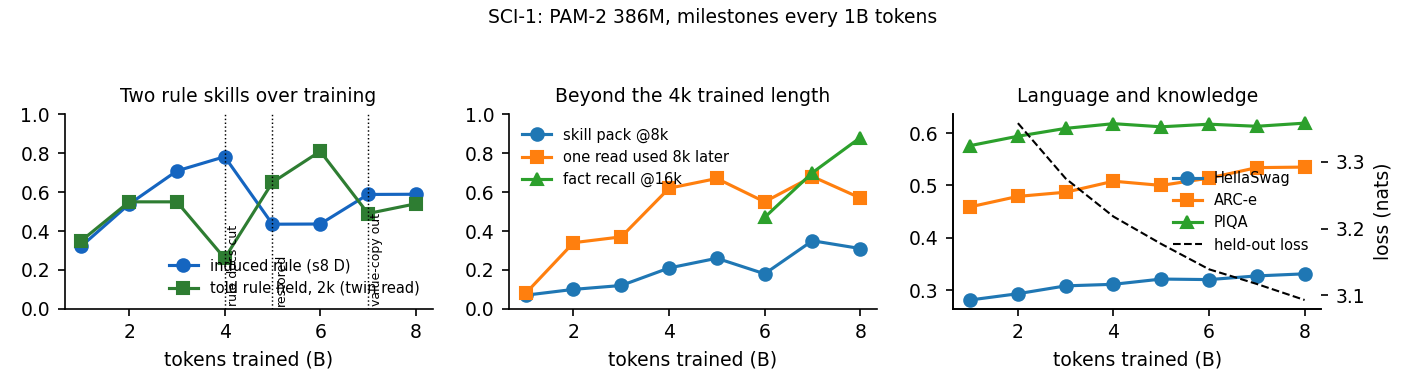
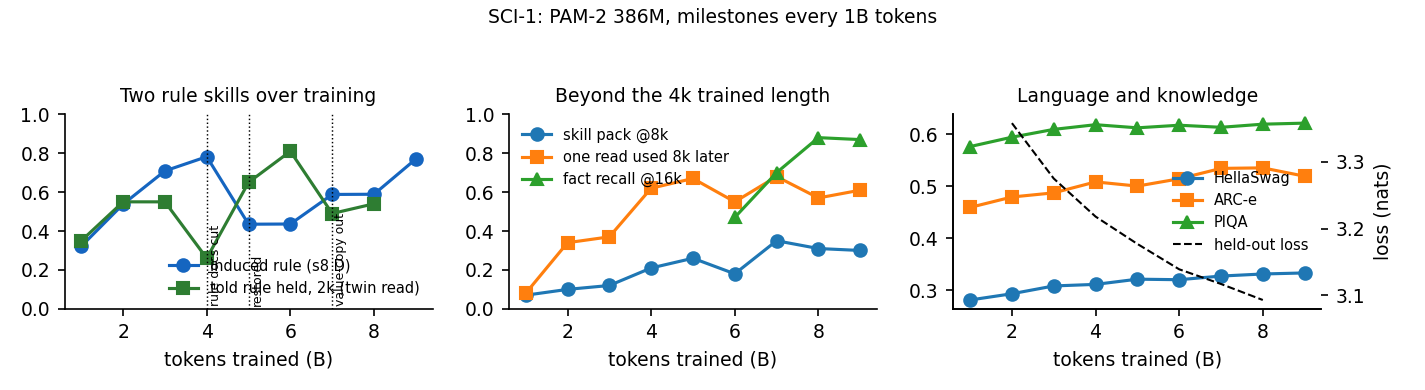
board + paper data: M9 (s8 D 0.770, lagged b2s recovery complete; cont3 verdict: not protoc); fig4 extended (docs/data only)

diff --git a/v16/SCRATCHPAD.md b/v16/SCRATCHPAD.md
@@ -153,9 +153,11 @@ Popped by the others (23:55 IST):
 | M6 (91,554, cont2) | 6.0B | 0.436 | 0.81 / 0.20 |
 | M7 (106,813, cont2 end) | 7.0B | 0.588 | 0.49 / 0.04 |
 | 122,072 (cont3 +1B, protoc out) | 8.0B | 0.589 | 0.54 / 0.04 |
+| 137,331 (cont3 +2B) | 9.0B | 0.770 | (A26 pending) |
 Opposite moves in 2 of 3 intervals (M6->M7 within one mix: told 0.81 -> 0.49, induced 0.44 -> 0.59): supports competition; skills swing +-0.3 between milestones, so cont3 is judged on 122,072 AND 137,331. cont3 read: s8 +0.10 AND told -0.10 = competition; s8 up + told +-0.10 = protoc-specific; s8 flat + told holds = (b)/(c); s8 flat + told falls = protoc helped told.
 
 ## Decisions (organiser)
+- 2026-11-05 13:16 IST: M9 (137,331, 9.0B, cont3 +2B): s8 D 0.589 -> 0.770 (near the M4 peak 0.782; 2k 0.90/0.92, 4k 0.53/0.74). cont3 verdict: 0.770 < 0.84 bar, so NOT attributed to dropping protoc; it is the lagged b2s recovery completing ~2B tokens after restoration. Reach flat (skill 8k 0.30, clk2 8k/16k 0.61/0.12, needles 16k 0.87); HS/ARC-e/PIQA 0.333/0.519/0.621; holdout ppl 21.79 (best). cont4 (worked) training since 12:36 at 37.7k tok/s; leak baseline 0.00; its one milestone 152,590 ~19:50.
 - 2026-11-05 09:35 IST: ONE LIST for the paper: v16/paper/TODO.md (experiments that change claims, findings already in, housekeeping, GPU order). Every step-back discovery is a line there with an owner; sections are written only after verdicts.
 - 2026-11-05 08:44 IST: KNOCKOUTS (Mind, trained ctl PAM, part off during filler only): all-on 0.523; no erase-at-key 0.197 (-0.33); equal-energy global fade (Mamba-like) 0.136 (-0.39, worse than no erase); clock frozen 0.381 (-0.14); echo / readers zeroed collapse the adjacent case too (read path of the sparse body, not separable at eval time). MECHANISM: forgetting locally along each passing token's own key is what carries the rule. In the paper as §3.5 + fig8. Ladder rungs for the 6000: all-on, no-delta, no-chrono, no-echo, no-readers (s8 + told-twin cells).
 - 2026-11-05 08:12 IST: COMPLEX TWIN (user: 'could complex be better at same data?'): Mind ported delta, chrono, out_gate, reset_at_eos, sparse notebooks, shared reads to a complex head in v16/complex/ (b830731 tests, ce11afa prereg; v13 untouched); delta runs the fused real kernel on the realified notebook (one complex step = two real sub-steps); parity vs real twins 1e-5..1e-7; echo NOT ported (the one body difference). cx_m2 102.93M (ctl PAM 102.88M), ctl recipe exactly, prereg v16/complex/EXPERIMENTS_CX.md, parent ctl_pam. Smoke on the 4090 since 08:11; launch follows; resumable across the 10:30 reboot; move to the 6000 after SCI-1 decay if slow.
